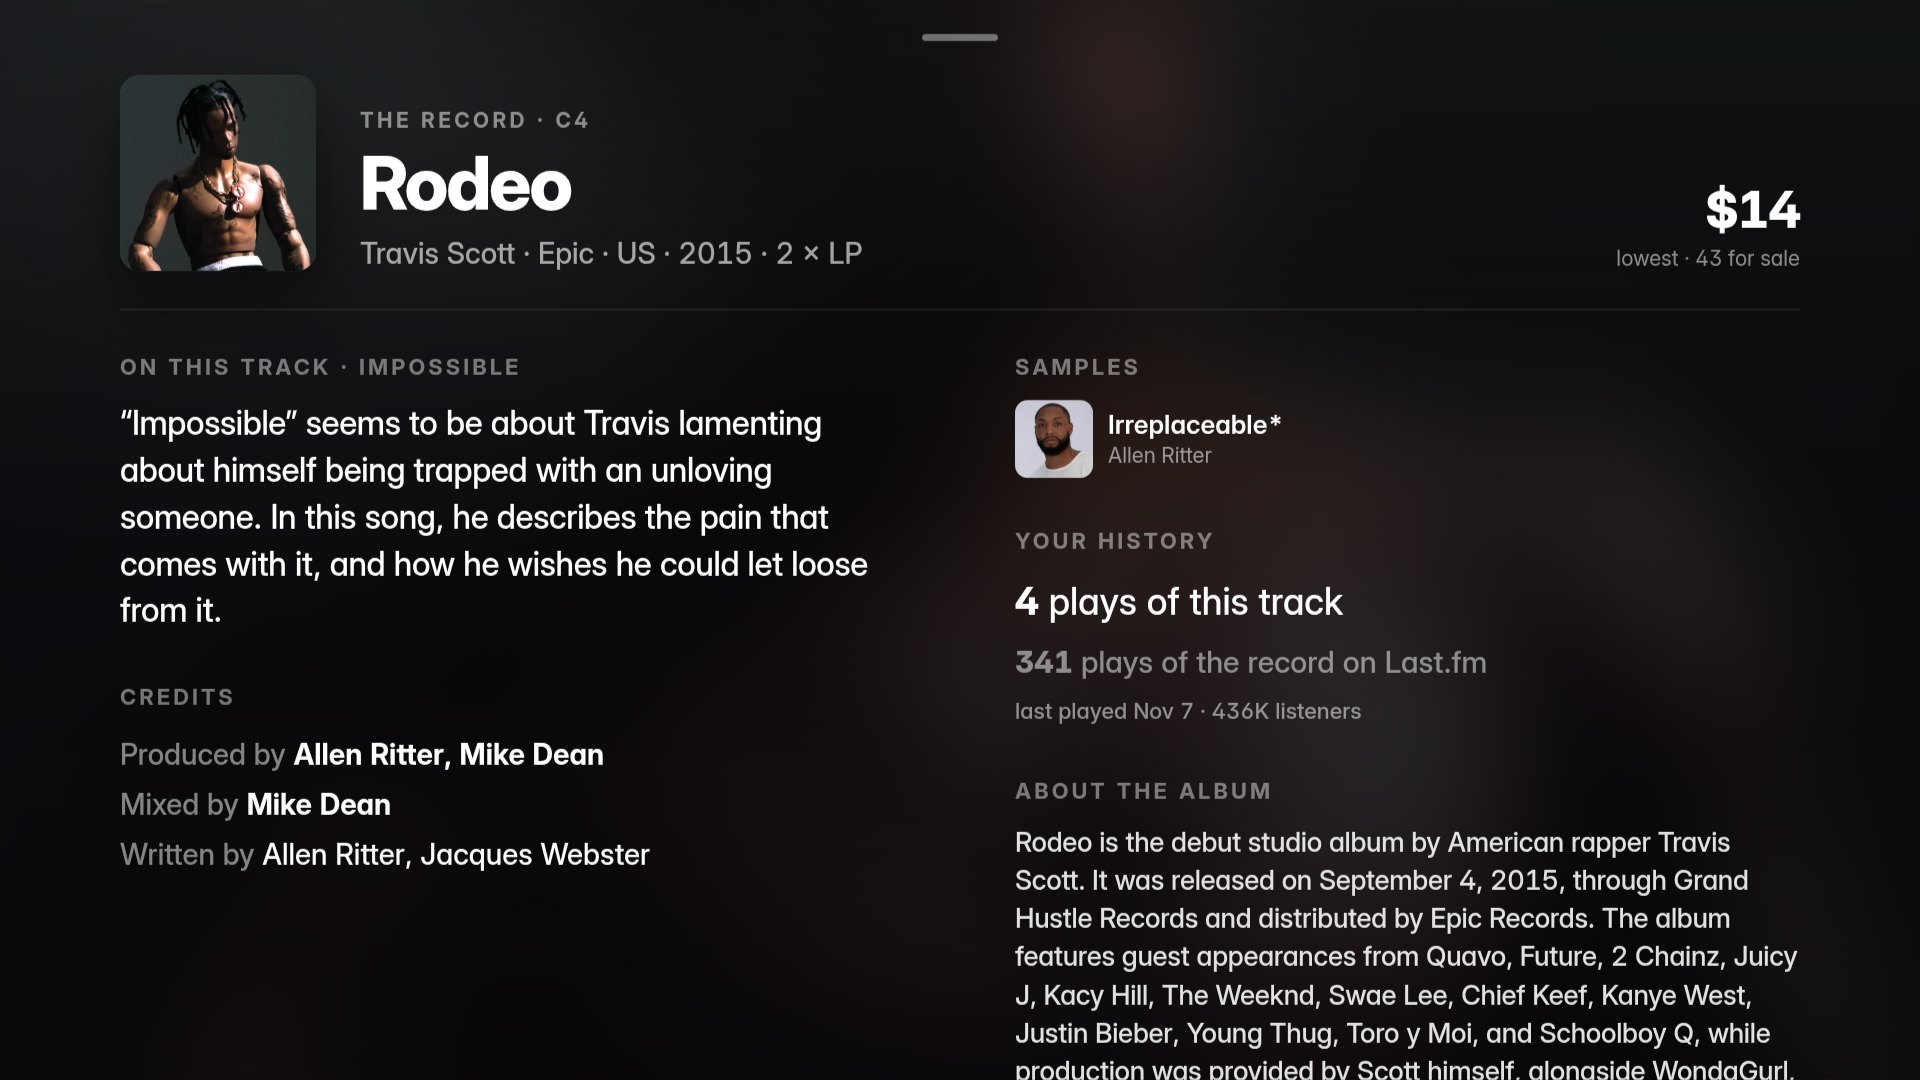
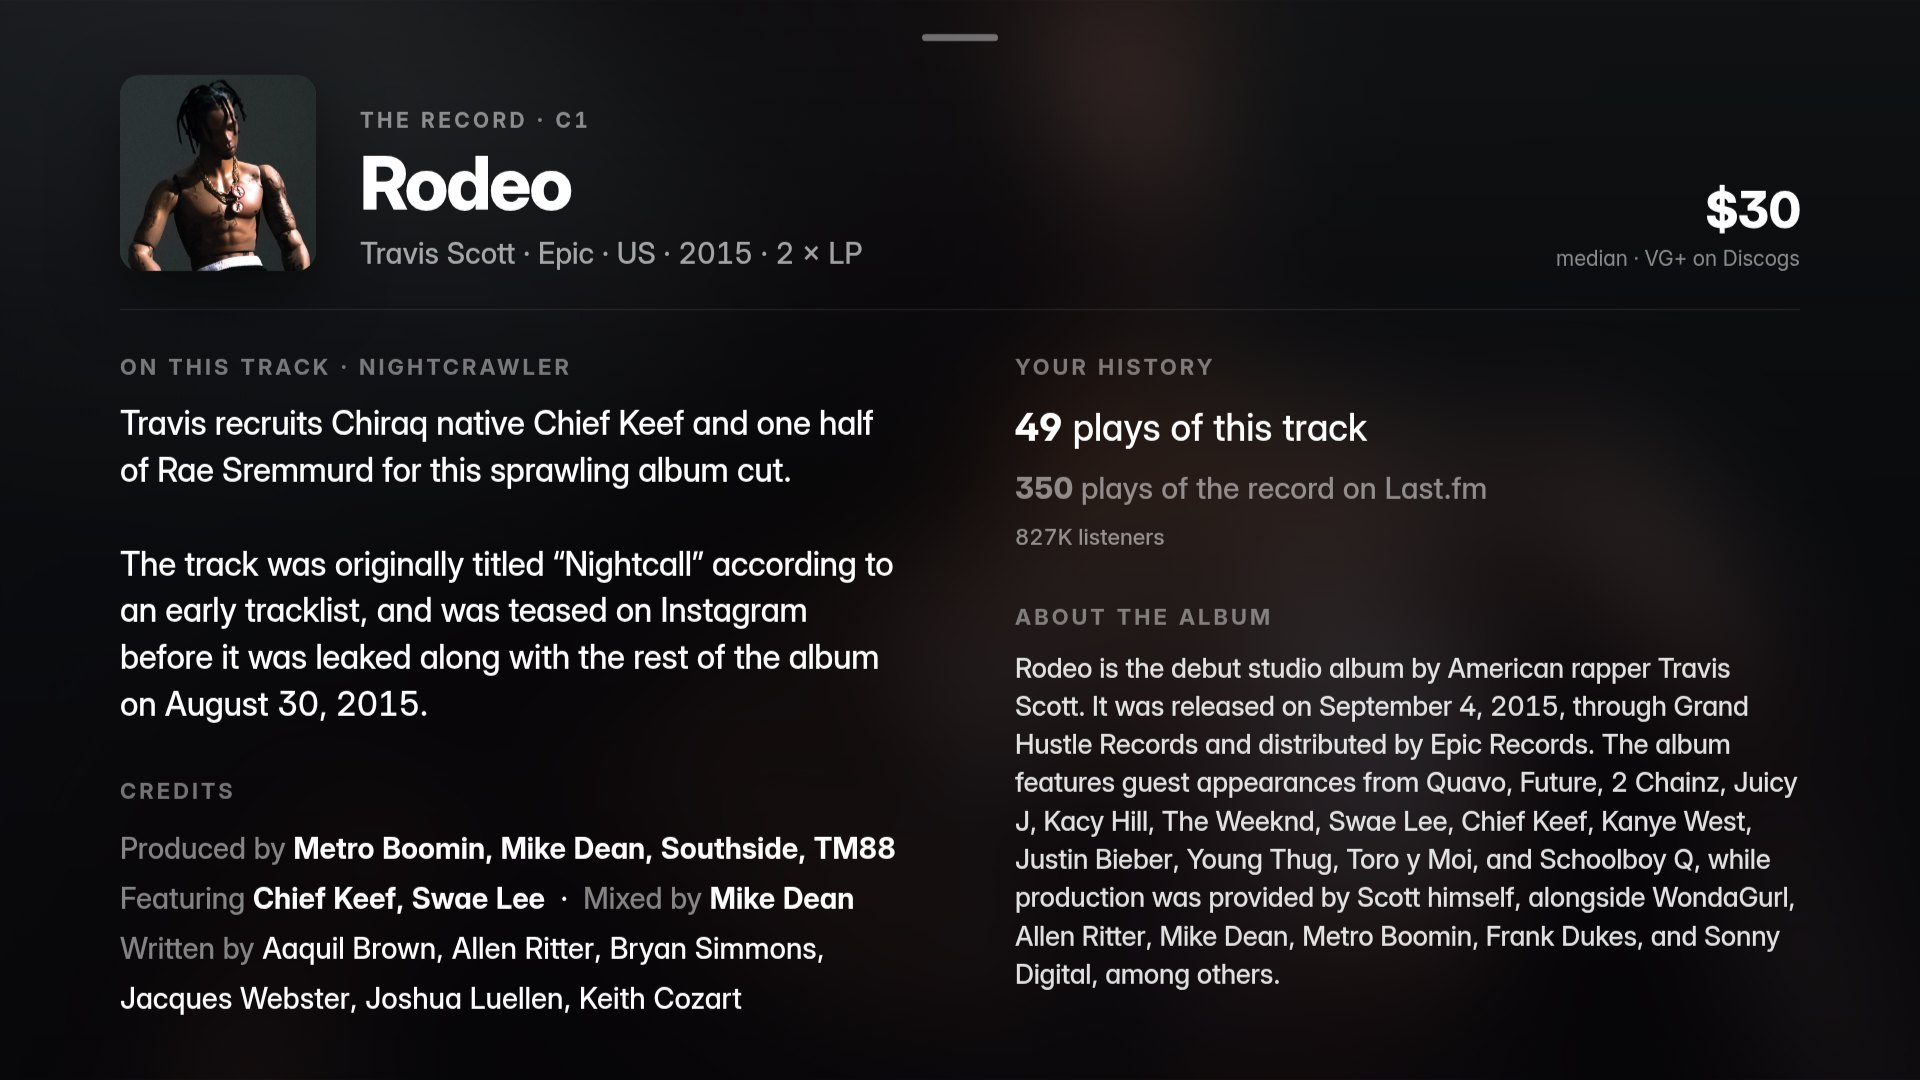
README: fresh screens from the real page (Madvillainy, Rodeo), the flip as a GIF, the end card

diff --git a/README.md b/README.md
@@ -43,6 +43,9 @@ Discogs tracklist alone. The design is written up in [`docs/ENGINE.md`](docs/ENG
   <img src="docs/screens/lyrics.jpg" alt="Time-synced lyrics" width="440">
   <img src="docs/screens/info.jpg" alt="The liner notes page: story, credits, samples, your history" width="440">
 </p>
+<p align="center">
+  <img src="docs/screens/flip.gif" alt="A track ends; the page flips to the next one on the clock" width="720">
+</p>
 
 Since v0.3 the screen is a web page Spindle serves itself, shown full screen by Chromium under
 the `cage` Wayland compositor on a 13.3-inch 1080p OLED with touch. Everything sits on the
@@ -59,6 +62,11 @@ blurred cover; idle is pure black, so the panel is off until the needle drops.
   Everything is prefetched on each track change, so it opens at once.
 - **End of side**: "Side A · finished / Flip for Side B / 5 tracks scrobbled". A tap turns the
   screen off; a new record wakes it.
+
+<p align="center">
+  <img src="docs/screens/end-of-side.jpg" alt="End of side" width="720">
+</p>
+
 - **Gestures**: swipe down, tap the top band or pull past the top to close Info; swipe right for
   a dark screen; tap to wake.
 
